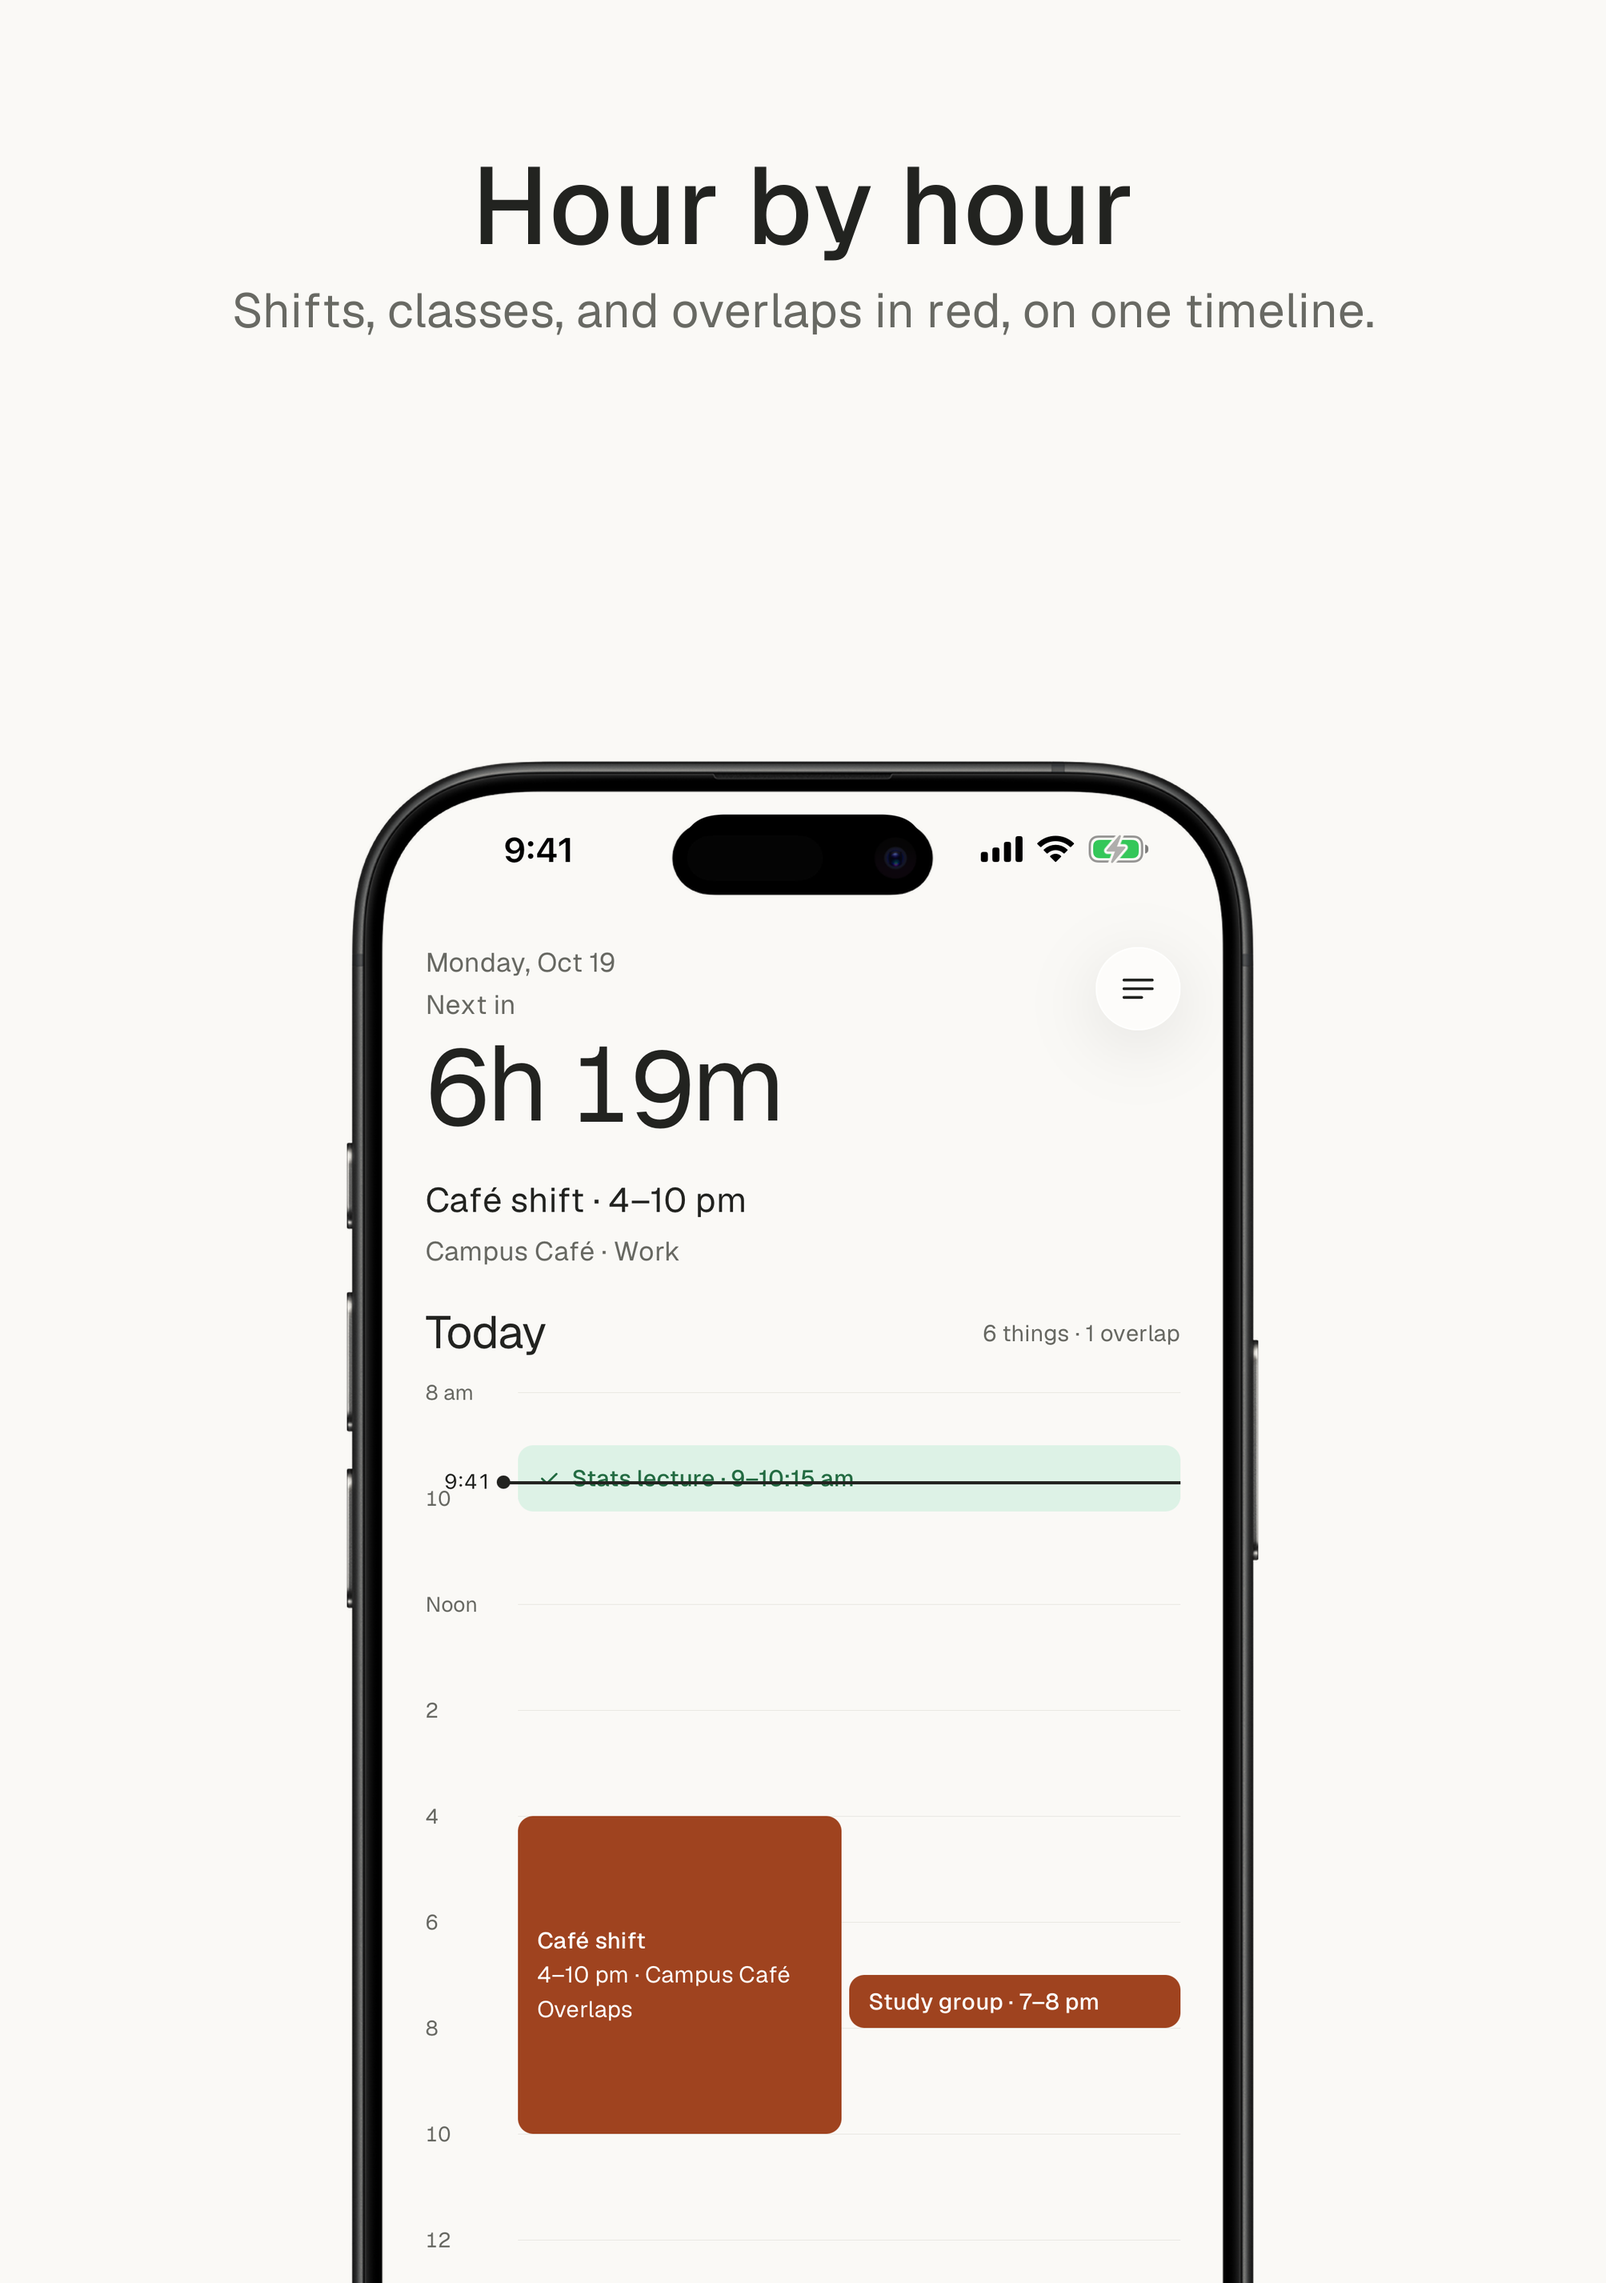
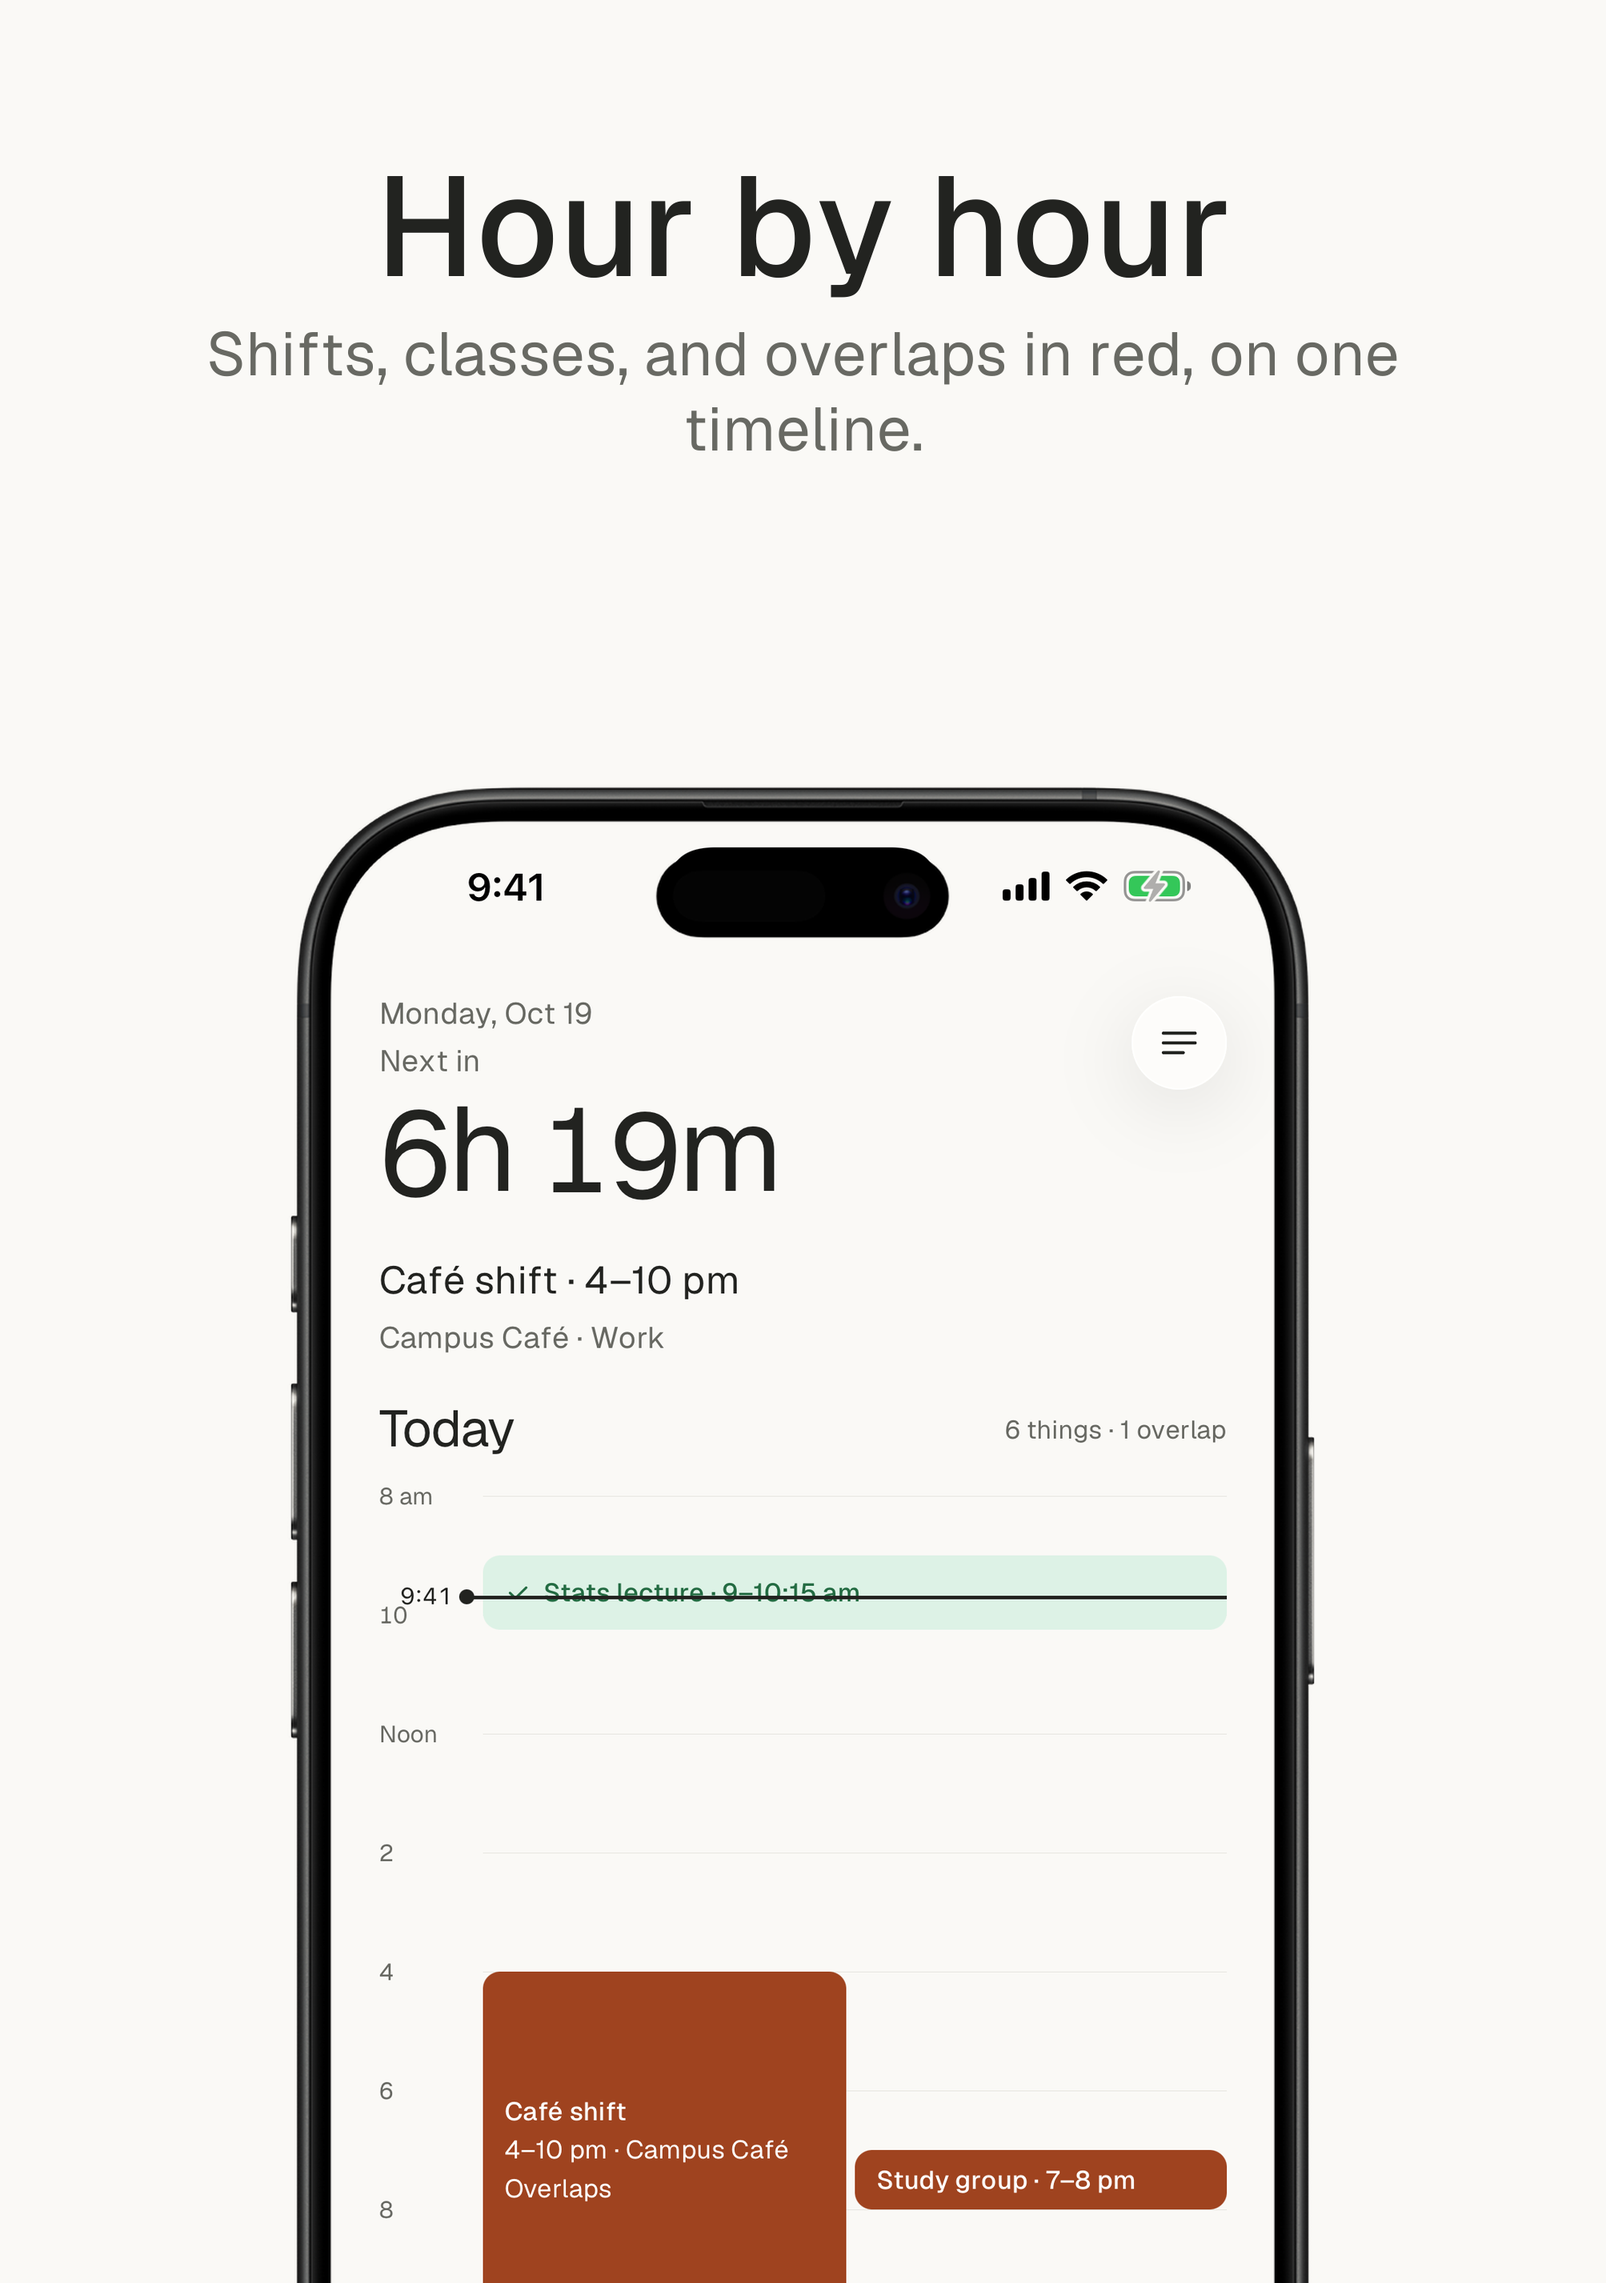
feat(design): add wide layout for 2007x2853 canvas and update launch guide for screenshot generation

Changed region(s): [[0.1545, 0.312, 0.8341, 1.0], [0.1236, 0.0624, 0.865, 0.2184]]

diff --git a/design/render-screenshots.py b/design/render-screenshots.py
@@ -66,6 +66,8 @@ LAYOUTS = {
     "ink": Layout("ink", "center", INK, PAPER, DARK_SECONDARY),
     "regular": Layout("regular", "left", PAPER, INK, SECONDARY, title_weight="Regular"),
     "bezel": Layout("bezel", "left", PAPER, INK, SECONDARY, frame=False, screen_w=1120),
+    # For the 2007 x 2853 foldable canvas: type and phone scaled up so they hold the same share of the width.
+    "wide": Layout("wide", "center", PAPER, INK, SECONDARY, title_size=176, title_lead=194, sub_size=76, sub_lead=94, margin=140, device_top=960, screen_w=1320),
 }
 
 # Order matters: the first three show in search results. Titles fit two lines at 136px.

diff --git a/docs/launch-guide.md b/docs/launch-guide.md
@@ -108,7 +108,7 @@ The captions live in `design/render-screenshots.py` (`SHOTS`). Listing text: [ap
 1. On the booted **iPhone 17 Pro Max** simulator with the dev client and Metro running, write the dev files into the app's Documents folder (`C=$(xcrun simctl get_app_container booted app.semli.mobile data)`): `dev-clock.txt` holds `09:41`, or `2026-10-19 09:41` to also fix the day (Monday has the overlap, the due reading and the lecture); `dev-command.txt` holds `sample`, `hours`, `list`, `review`, `review-update`, `item`, `plus` or `moment`. Then relaunch: `xcrun simctl terminate booted app.semli.mobile; xcrun simctl openurl booted "semli://expo-development-client/?url=http%3A%2F%2Flocalhost%3A8081"` and wait 16–20 s.
 2. Light mode, 9:41 status bar: `xcrun simctl status_bar booted override --time 9:41 --batteryLevel 100 --cellularBars 4`.
 3. Open a screen by deep link (`xcrun simctl openurl booted semli://plan`, `semli://school`, `semli://add`, `semli://paywall`) and capture with `xcrun simctl io booted screenshot design/screenshots/raw/<name>.png` (1320 × 2868). Look at every capture: the dev build often restores the previous screen on relaunch, a deep link right after launch can leave a grey overlay on the status bar, and switching the Today view on launch leaves a ghost of the old view (relaunch once more).
-4. Compose: `python3 design/render-screenshots.py` (needs Pillow) writes `design/screenshots/NN-<name>.png` at 1320 × 2868: caption on paper, the site's iPhone frame (`apps/web/public/phones/`) bleeding off the bottom edge, the layout Things, Structured and Opal use. `--layout bezel|center|ink|regular` are the alternatives that were considered; `--canvas 2007x2853 --out design/screenshots/2007x2853 --layout center` makes the foldable inner-display set. The 6.1"/6.3" slot (1206 × 2622) takes a plain downscale, kept in `design/screenshots/6.3-inch/`.
+4. Compose: `python3 design/render-screenshots.py` (needs Pillow) writes `design/screenshots/NN-<name>.png` at 1320 × 2868: caption on paper, the site's iPhone frame (`apps/web/public/phones/`) bleeding off the bottom edge, the layout Things, Structured and Opal use. `--layout bezel|center|ink|regular` are the alternatives that were considered; `--canvas 2007x2853 --out design/screenshots/2007x2853 --layout wide` makes the foldable inner-display set. The 6.1"/6.3" slot (1206 × 2622) takes a plain downscale, kept in `design/screenshots/6.3-inch/`.
 5. Upload in order to the 6.9-inch slot; Apple scales it to every other iPhone unless a size-specific set is uploaded. Localize nothing for now (US English only).
 
 Known bug (Oct 20, 2026): the paywall cover and You → Semli Plus lay out below the status bar, leaving a paper band with invisible white status text. The script paints that band dark for the store image; the screen itself still needs the fix.
